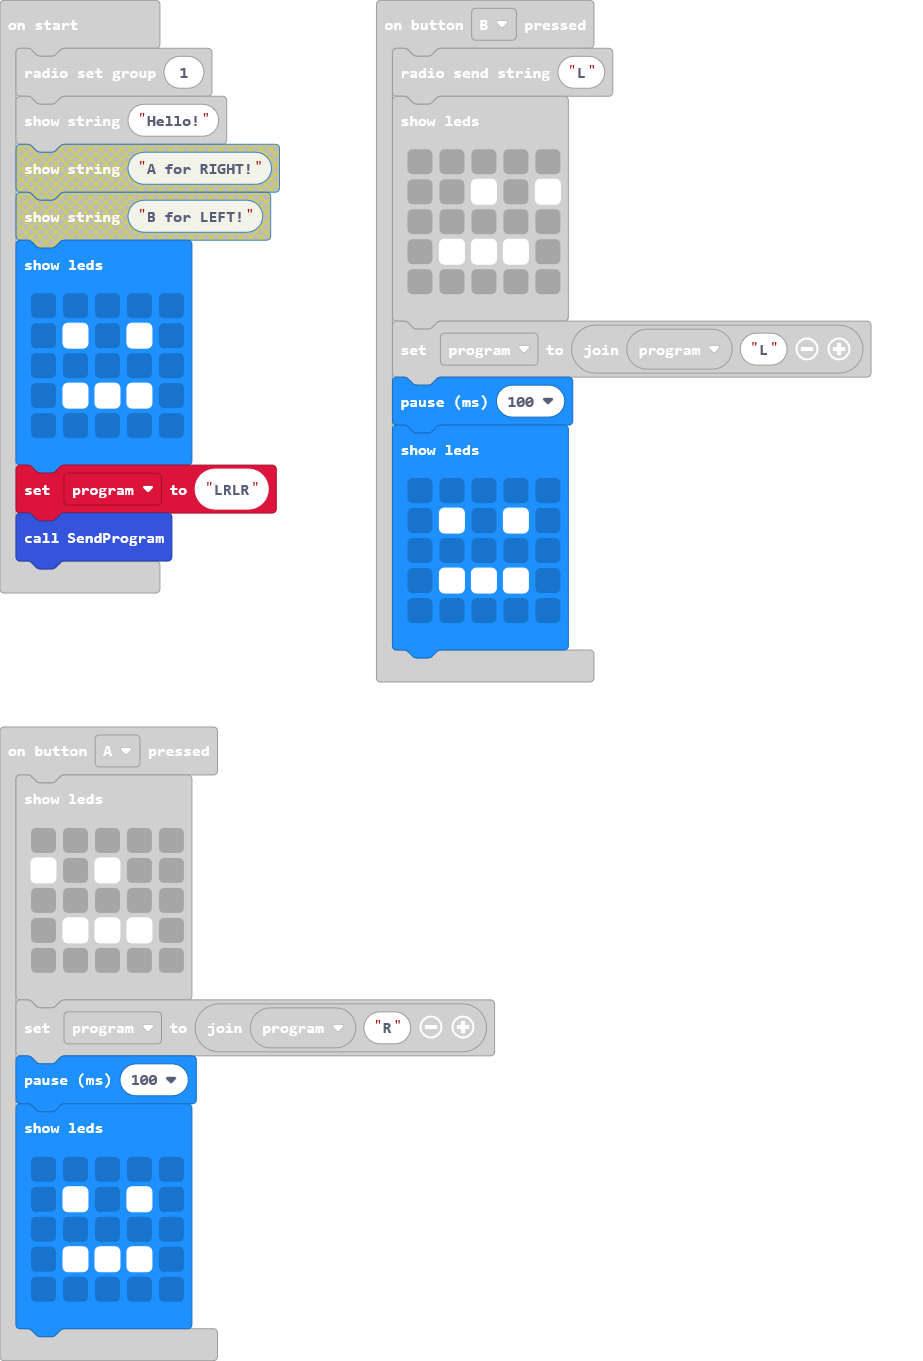
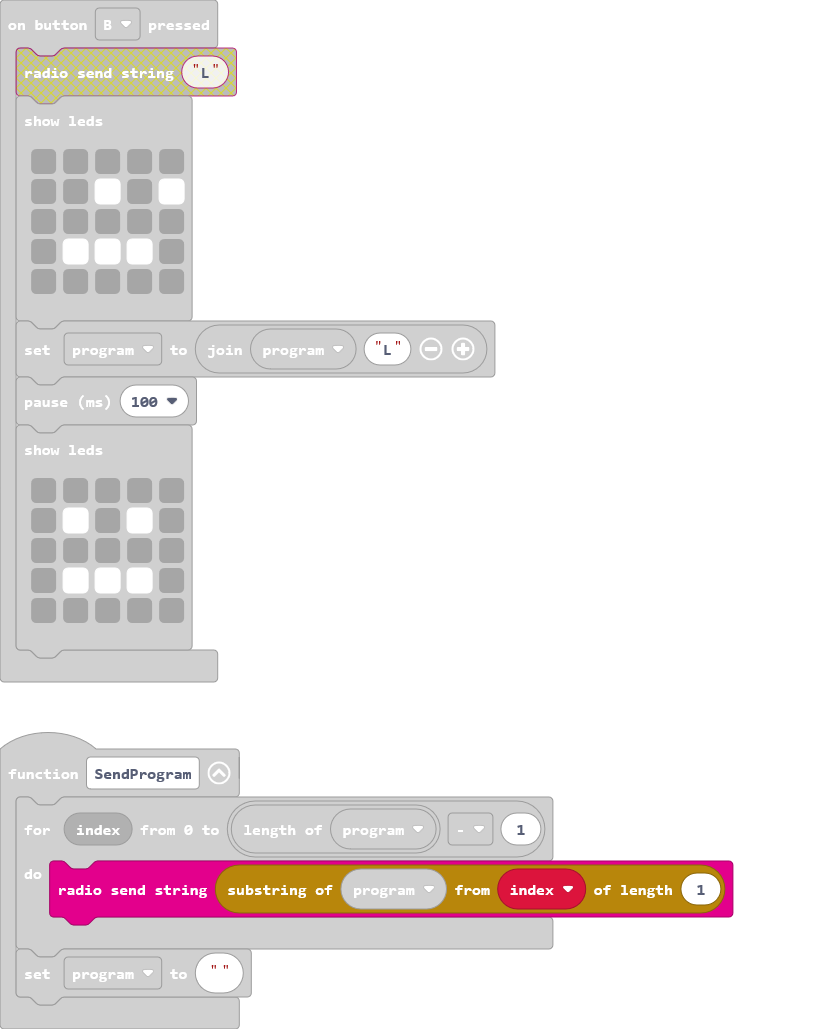
Update main.blocks, main.ts

diff --git a/main.ts b/main.ts
@@ -1,6 +1,6 @@
 function SendProgram () {
     for (let index = 0; index <= program.length - 1; index++) {
-        radio.sendString(program.substr(0, 10))
+        radio.sendString(program.substr(index, 1))
     }
     program = ""
 }
@@ -23,7 +23,6 @@ input.onButtonPressed(Button.A, function () {
         `)
 })
 input.onButtonPressed(Button.B, function () {
-    radio.sendString("L")
     basic.showLeds(`
         . . . . .
         . . # . #
